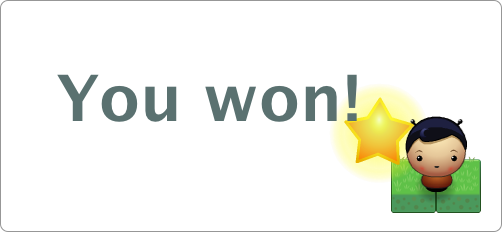
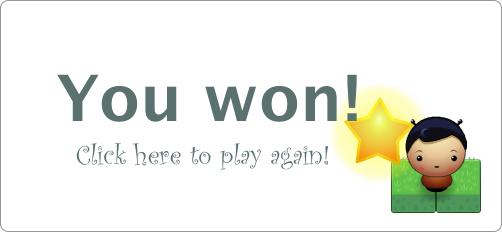
Add play game again when won or lost.

Changed region(s): [[0.1494, 0.6034, 0.6574, 0.7241]]

diff --git a/projects/arcade_game/js/app.js b/projects/arcade_game/js/app.js
@@ -1,5 +1,4 @@
 // Initializing global variables
-var startGame = false;
 var gameOver = true;
 var allEnemies = [];
 var nextPage = false;
@@ -77,15 +76,13 @@ Player.prototype.render = function() {
         this.drawJewels(this.gem, this.gemblockChosenLeft, this.gemblockChosenUp);
     } else {
         this.x = 700;
-        ctx.drawImage(Resources.get('images/game_won.png'), 2, 150);
-        ctx.drawImage(Resources.get('images/again.png'), 300, 400);
-
+        playAgain('images/game_won.png')
     }
 
 
     if (player.numLifes === 0) {
         this.x = 700;
-        playAgain();
+        playAgain('images/game_over.png');
             }
 
     this.gemsCaught.forEach(function(gem, index){
@@ -206,7 +203,7 @@ var Game = function(player_inst, enemiesArray) {
 }
 
 var playAgain = function(drawingWinLose){
-    ctx.drawImage(Resources.get('images/game_over.png'), 2, 200);
+    ctx.drawImage(Resources.get(drawingWinLose), 2, 200);
 
     var elem = document.getElementById('first-canvas'),
         elemLeft = elem.offsetLeft,
@@ -219,7 +216,10 @@ var playAgain = function(drawingWinLose){
             y = event.pageY - elemTop ;
         if ((x > 0 && x < 500) &&
             (y > 200 && y < 450)) {
-            console.log("yes")
+            allEnemies = [];
+            gameOver = true;
+            nextPage = false;
+            elem.removeEventListener('click', clickPlayAgain);
     }
     }
     elem.addEventListener('click', clickPlayAgain);
@@ -317,6 +317,7 @@ document.addEventListener('keyup', function(e) {
         nextPage = true;
     } else if(e.keyCode == 37) {
         nextPage = false;
+
     }
 });
 
